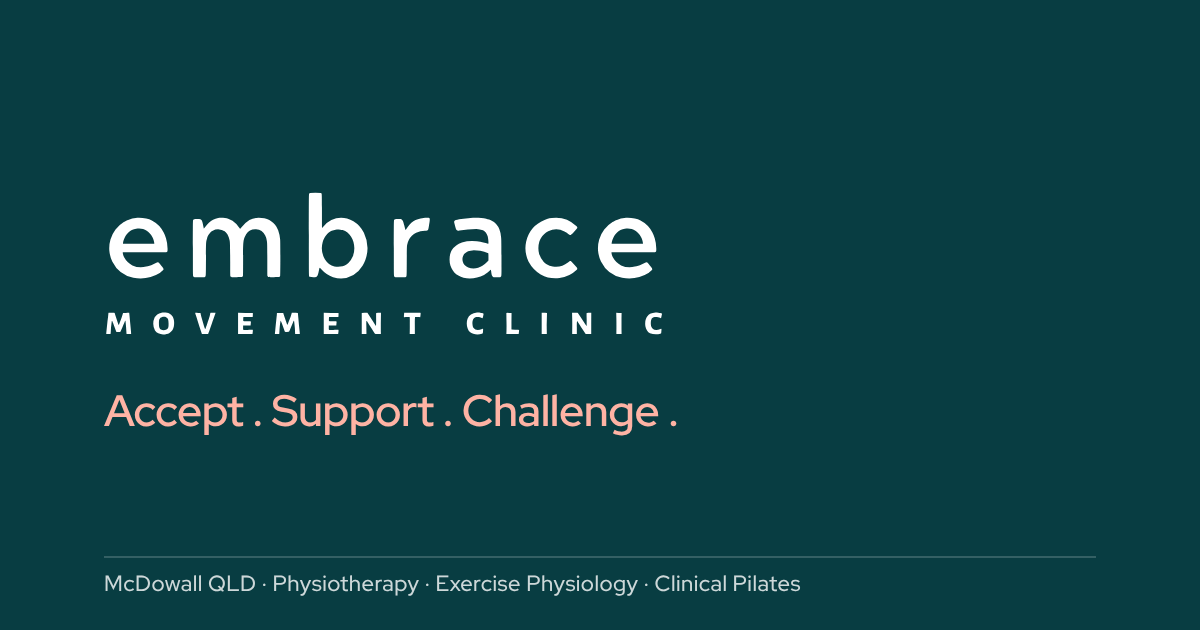
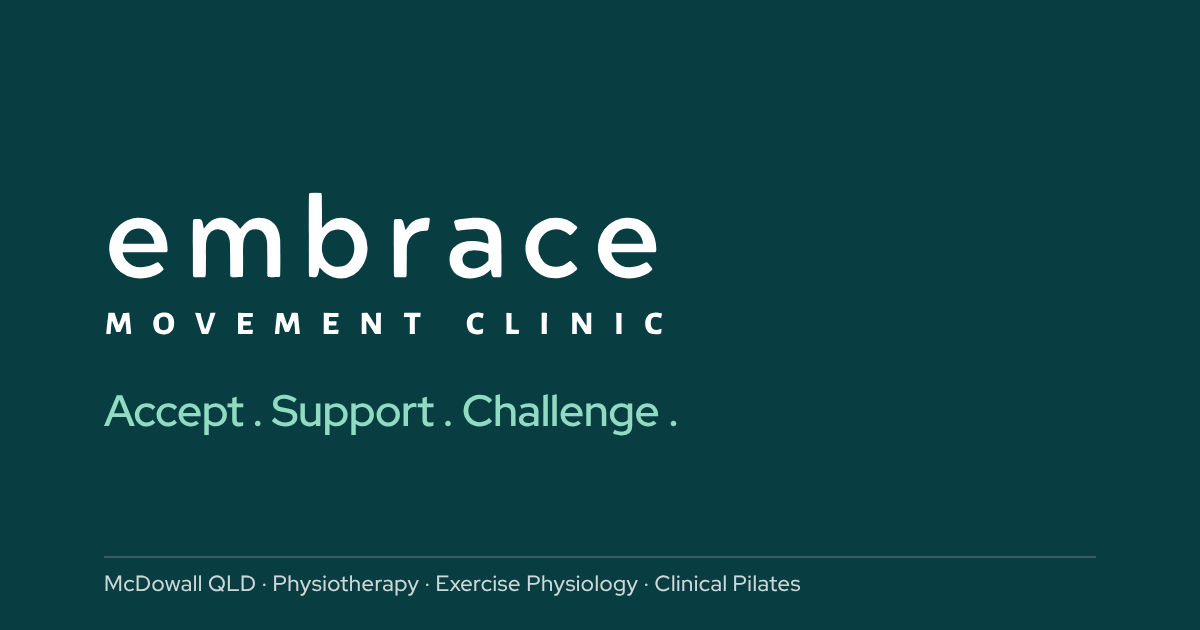
Follow the owner's switch to a teal accent
The owner changed sitePalette from coral to teal on GitHub (merged in).
Docs, comments, the style tile and the palette picker now describe Petrol
+ Teal, the style tile no longer shows logo teal twice when it's also the
accent, and the default share image's tagline uses light teal.

Claude-Session: https://claude.ai/code/session_01BW2HAhZDkk8h3KF5xZKB5n

Changed region(s): [[0.0925, 0.6333, 0.555, 0.6937]]

diff --git a/site/src/data/palette.ts b/site/src/data/palette.ts
@@ -113,8 +113,9 @@ export const suggestions: { name: string; dark: DarkId; accent: AccentId; why: s
   { name: 'Embrace', dark: 'aubergine', accent: 'berry', why: 'Warm and caring; stands out from other local clinics.' },
 ];
 
-// The palette the site uses: Petrol + Coral ("Lagoon"), chosen by the owner on 19 Oct 2026.
-// To switch, change these two values (preview the options on /palette first).
+// The palette the site uses: Petrol + Teal. The owner chose petrol on 19 Oct 2026 and changed
+// the accent from coral to teal on 20 Oct 2026. To switch, change these two values (preview
+// the options on /palette first).
 export const sitePalette: { dark: DarkId; accent: AccentId } = { dark: 'petrol', accent: 'teal' };
 
 // Semantic colour tokens (see src/styles/tokens.css for what each one is for).
@@ -168,6 +169,9 @@ export function themeCss(): string {
   for (const [id, a] of Object.entries(accents)) css += rule(`html[data-accent='${id}']`, accentTokens(a));
   return css;
 }
+
+/** Accent name for prose, e.g. "Teal" rather than the picker's "Teal only". */
+export const accentName = (id: AccentId) => accents[id].label.replace(/ only$/, '');
 
 /** Ids accepted by the preview script, e.g. "navy-teal". */
 export const previewIds = Object.keys(darks).flatMap((d) => Object.keys(accents).map((a) => `${d}-${a}`));

diff --git a/site/src/styles/tokens.css b/site/src/styles/tokens.css
@@ -53,9 +53,8 @@
 }
 
 /*
-  Palette tokens. The values come from src/data/palette.ts (sitePalette: Petrol + Coral,
-  chosen 19 Oct 2026) and are inlined on :root by BaseLayout, so /palette can preview
-  other combinations.
+  Palette tokens. The values come from src/data/palette.ts (sitePalette, currently Petrol +
+  Teal) and are inlined on :root by BaseLayout, so /palette can preview other combinations.
   --color-bg, --color-bg-alt  page and alternate section backgrounds
   --color-ink, --color-ink-muted, --color-line
   --color-brand            dark anchor colour: dark sections, footer, buttons, links

diff --git a/docs/decisions.md b/docs/decisions.md
@@ -20,6 +20,6 @@ Fill these in before the build starts. Claude Code will ask about anything left 
 | Temporary closure | **Site-wide notice banner (confirmed 12 Oct 2026)** | Set in `site/src/data/site.ts` (`notice`). Also noted on Book Now, Contact and the team cards. |
 | Fonts | **Red Hat Display (headings) + Red Hat Text (body), chosen 12 Oct 2026** | Self-hosted variable fonts, about 60 KB together. |
 | Logo | **Plain wordmark only, chosen 12 Oct 2026** | The brush-stroke circle is dropped. `assets/brand/logo-wordmark.svg` was traced from the supplied black wordmark and takes any colour. |
-| Colour palette | **Petrol + Coral, chosen 19 Oct 2026** (logo-based). Forest (chosen 12 Oct) was dropped on 18 Oct as too close to a local competitor | Petrol `#083D42` (buttons, links, dark sections), coral `#EB7660` (decorative) and light coral `#FEB3A4` (on petrol), logo teal `#3AB593` (wordmark) and teal 600 `#179677` (icons), mist `#F2F8F8`, ink `#161A18`, white header. All text pairings pass WCAG 2.2 AA. Values in `site/src/data/palette.ts` (`sitePalette`); see `/styleguide`. `/palette` stays so other combinations can be previewed later. |
+| Colour palette | **Petrol + Teal** (logo-based). Petrol + Coral chosen 19 Oct 2026; the owner changed the accent to teal on 20 Oct 2026. Forest (chosen 12 Oct) was dropped on 18 Oct as too close to a local competitor | Petrol `#083D42` (buttons, links, dark sections), logo teal `#3AB593` (wordmark, decorative accent), light teal `#90DBC1` (text and buttons on petrol), pale teal `#EEFAF5` (notices, chips), teal 600 `#179677` (icons), mist `#F2F8F8`, ink `#161A18`, white header. All text pairings pass WCAG 2.2 AA. Values in `site/src/data/palette.ts` (`sitePalette`); see `/styleguide`. `/palette` stays so other combinations can be previewed later. |
 | Launch target | TBC | |
 | Sign-off | TBC | Who approves content and go-live |

diff --git a/CLAUDE.md b/CLAUDE.md
@@ -44,7 +44,7 @@ Use the screenshots for these. Where a screenshot is missing, leave a `TODO:` ra
 - Tagline: "Accept . Support . Challenge ."
 
 **Palette**
-- **Petrol + Coral, chosen by the owner on 19 Oct 2026.** A logo-based palette: logo teal `#3AB593` on the logo, with teal 600 `#179677` for icons and highlights; petrol `#083D42` on buttons, links and dark sections; coral `#EB7660` as a decorative accent, with light coral `#FEB3A4` for text and buttons on petrol; a cool mist `#F2F8F8` for alternate backgrounds.
+- **Petrol + Teal.** The owner chose petrol on 19 Oct 2026 and changed the accent from coral to teal on 20 Oct 2026. A logo-based palette: logo teal `#3AB593` on the logo and as the decorative accent, with teal 600 `#179677` for icons and highlights; petrol `#083D42` on buttons, links and dark sections; light teal `#90DBC1` for text and buttons on petrol; pale teal `#EEFAF5` for the notice banner and chips; a cool mist `#F2F8F8` for alternate backgrounds. Teal is only ever paired with petrol, never with a dark green.
 - Forest (`#1E3A2F`, sage, bone) was dropped on 18 Oct 2026 as too close to a local competitor (dark green `#003721`, `#006838` buttons, bone `#FAF8F2`, lime/pear greens). Don't use dark greens, sage or bone.
 - Palette values live in `site/src/data/palette.ts` (`sitePalette` picks the combination); `site/src/styles/tokens.css` documents the semantic tokens and holds the non-colour tokens. Components use the semantic `--color-*` tokens only. `/styleguide` shows the palette and its contrast checks.
 - Keep `/palette` (the picker): the owner may want to try other combinations later. It's not indexed or in the sitemap.

diff --git a/docs/to-supply.md b/docs/to-supply.md
@@ -22,7 +22,7 @@ Tick items off as they arrive. Brand files go in `assets/brand/`; screenshots go
 
 - [x] Logo: colour circle (500px transparent PNG) and black wordmark (1500px PNG), received 12 Oct 2026 and saved in `assets/brand/`. Favicons and a white footer wordmark were made from them.
 - [x] Logo as SVG: traced from the black wordmark (`assets/brand/logo-wordmark.svg`). An original vector file from whoever designed it would still be ideal, if one exists.
-- [x] **Colour palette:** Petrol + Coral, chosen 19 Oct 2026. `/palette` stays for trying other combinations later.
+- [x] **Colour palette:** Petrol + Teal (petrol chosen 19 Oct 2026; accent changed from coral to teal on 20 Oct). `/palette` stays for trying other combinations later.
 - [x] Font choice: Red Hat Display + Red Hat Text (open licence, self-hosted)
 - [x] Clinic, team and treatment photos: 16 received on 19 Oct 2026. 14 are on the site (`site/src/assets/photos/`): headshots, the team photo with Jeff, the home page, every service page and the studio gallery.
 - [ ] **Guardian consent for the two photos of children** (`PXL_20220610_235914156`, a child using a wheelchair beside the reformer, and `PXL_20220611_052505665`, a child on the treatment table). They're held back until you confirm a parent or guardian agreed to their use on the website.

diff --git a/site/README.md b/site/README.md
@@ -24,7 +24,7 @@ Needs Node 22.12 or later.
 | Cancellation policy, class facts, equipment, studio rules, timetable | `src/data/policies.ts` |
 | Old URL redirects | `public/_redirects` |
 | Menu and footer links | `src/data/navigation.ts` |
-| Colours (Petrol + Coral) | `src/data/palette.ts`: change `sitePalette` to switch combination; preview the options on `/palette` (not indexed) |
+| Colours (Petrol + Teal) | `src/data/palette.ts`: change `sitePalette` to switch combination; preview the options on `/palette` (not indexed) |
 | Type sizes, spacing, what each colour token is for | `src/styles/tokens.css` |
 | Online booking link | `booking.url` in `src/data/site.ts`, plus the `/book-now` line in `public/_redirects` (the link checker flags them if they differ) |
 | Photos | `src/assets/photos/`. A service sets `image`, `imageAlt` and (optionally) `imagePosition` in its Markdown file; a practitioner sets `photo`; a news post lists `images`; home page photos are imported at the top of `src/pages/index.astro`. `imagePosition` / `position` picks which part of the photo is kept when it's cropped, e.g. `'50% 30%'`. The build makes the AVIF/WebP sizes. Placements and alt text are logged in `docs/changes.md`. |

diff --git a/docs/changes.md b/docs/changes.md
@@ -95,7 +95,7 @@ Mechanical edits across all pages (one entry): Australian spelling (customised, 
 
 **Full redesign** to modernise the site, with a modern, sleek feel. Brand identity:
 - **Logo:** the plain "embrace / MOVEMENT CLINIC" wordmark only. The teal brush-stroke circle is dropped (owner decision, 12 Oct 2026).
-- **Palette:** Petrol + Coral, a logo-based palette chosen on 19 Oct 2026. Forest was chosen on 12 Oct 2026, then dropped on 18 Oct 2026 because it's too close to a local competitor. `/palette` stays for previewing other combinations.
+- **Palette:** Petrol + Teal, a logo-based palette (Petrol + Coral chosen on 19 Oct 2026; the owner changed the accent to teal on 20 Oct 2026). Forest was chosen on 12 Oct 2026, then dropped on 18 Oct 2026 because it's too close to a local competitor. `/palette` stays for previewing other combinations.
 - **Wordmark colours:** the header wordmark uses the logo's own colours (teal “embrace”, grey “MOVEMENT CLINIC”). The brush circle stays dropped. Favicons and the default share image are white on petrol.
 - **Tagline:** "Accept . Support . Challenge ." is kept.
 - **Type:** Red Hat Display + Red Hat Text.
